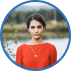
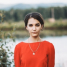
Add stylize for lionic

diff --git a/Skillbox/Web layout basic level/lionic-start/index.html b/Skillbox/Web layout basic level/lionic-start/index.html
@@ -302,14 +302,14 @@
 				<h2 class="section-title contacs-title">Contacts</h2>
 				<address class="contacts-address">
 					<ul class="contacts-list list-reset flex">
-						<li class="contacts-item flex">
+						<li class="contacts-item contact-item-visit-us flex">
 							<strong class="contacts-item-caption">
 								Visit&nbsp;Us
 							</strong>
 							<p class="contacts-item-text">Duis autem vel eum iriure dolor in&nbsp;hendrerit in&nbsp;vulputate velit.
 							</p>
 						</li>
-						<li class="contacts-item flex">
+						<li class="contacts-item contact-item-call-us flex">
 							<strong class="contacts-item-caption">
 								Call&nbsp;Us
 							</strong>
@@ -320,7 +320,7 @@
 								+7 (123) 456-78-90
 							</a>
 						</li>
-						<li class="contacts-item flex">
+						<li class="contacts-item contact-item-email-us flex">
 							<strong class="contacts-item-caption">
 								Email&nbsp;Us
 							</strong>
@@ -355,23 +355,29 @@
 				<nav class="footer-nav">
 					<ul class="list-reset footer-list flex">
 						<li class="footer-item">
-							<a href="#" class="footer-link">About Us</a>
+							<a href="#" target="_blank" class="footer-link">About Us</a>
 						</li>
 						<li class="footer-item">
-							<a href="#" class="footer-link">Contact Us</a>
+							<a href="#" target="_blank" class="footer-link">Contact Us</a>
 						</li>
 						<li class="footer-item">
-							<a href="#" class="footer-link">Privacy Policy</a>
+							<a href="#" target="_blank" class="footer-link">Privacy Policy</a>
 						</li>
 						<li class="footer-item">
-							<a href="#" class="footer-link">Terms Condition</a>
+							<a href="#" target="_blank" class="footer-link">Terms Condition</a>
 						</li>
 					</ul>
 				</nav>
-				<ul class="list-reset social">
-					<li class="social-item"><a href="#" class="social-link social-link-vk"></a></li>
-					<li class="social-item"><a href="#" class="social-link social-link-linkedin"></a></li>
-					<li class="social-item"><a href="#" class="social-link social-link-mail"></a></li>
+				<ul class="list-reset social flex">
+					<li class="social-item flex">
+						<a href="#" class="social-link social-link-twitter"></a>
+					</li>
+					<li class="social-item">
+						<a href="#" class="social-link social-link-linkedin"></a>
+					</li>
+					<li class="social-item">
+						<a href="#" class="social-link social-link-mail"></a>
+					</li>
 				</ul>
 			</div>
 		</div>

diff --git a/Skillbox/Web layout basic level/lionic-start/css/style.css b/Skillbox/Web layout basic level/lionic-start/css/style.css
@@ -247,7 +247,11 @@ p {
 
 .articles-item {
 	width: 570px;
+}
+
+.blog-preview {
 	border-radius: 5px;
+	overflow: hidden;
 	outline: 1px solid #e4e4e4;
 }
 
@@ -323,6 +327,13 @@ p {
 	margin-right: 17px;
 }
 
+.clients-avatar img {
+	min-width: 100%;
+	min-height: 100%;
+	border: 2px solid #3172b9;
+	border-radius: 100%;
+}
+
 .clients-name {
 	margin-bottom: 5px;
 	font-weight: 600;
@@ -340,14 +351,32 @@ p {
 
 /* contacts */
 
+.contacs-title {
+	margin-bottom: 109px;
+}
+
 .contacts-address {
 	font-style: normal;
 }
 
 .contacts-item {
 	flex-direction: column;
+	padding-top: 48px;
 	width: 370px;
-	outline: 1px solid red;
+	background-repeat: no-repeat;
+	background-size: 29px 29px;
+}
+
+.contact-item-visit-us {
+	background-image: url("../img/visit-us.svg");
+}
+
+.contact-item-call-us {
+	background-image: url("../img/call-us.svg");
+}
+
+.contact-item-email-us {
+	background-image: url("../img/email-us.svg");
 }
 
 .contacts-item:not(:nth-child(3n)) {
@@ -356,14 +385,24 @@ p {
 
 .contacts-item-caption {
 	margin-bottom: 30px;
+	font-weight: 600;
+	font-size: 17px;
+	line-height: 180%;
+	color: #1c1c1c;
 }
 
 .contacts-item-text {
 	margin: 0;
+	max-width: 214px;
+	font-size: 14px;
+	line-height: 180%;
 }
 
-.contacts-item-link:not(:last-child) {
-	margin-bottom: 5px;
+.contacts-item-link {
+	font-weight: 400;
+	font-size: 14px;
+	line-height: 180%;
+	color: #787878;
 }
 
 /* footer */
@@ -381,10 +420,51 @@ p {
 	margin-right: 25px;
 }
 
+.footer-copy {
+	font-weight: 400;
+	font-size: 12px;
+	color: #787878;
+}
+
 .footer-right {
 	align-items: center;
 }
 
+.footer-nav {
+	margin-right: 56px;
+}
+
+.footer-link {
+	font-weight: 600;
+	font-size: 15px;
+	color: #787878;
+}
+
 .footer-item:not(:last-child) {
 	margin-right: 28px;
+}
+
+.social {
+	gap: 32px;
+}
+
+.social-link {
+	display: block;
+	width: 24px;
+	height: 24px;
+	background-position: center center;
+	background-repeat: no-repeat;
+	background-size: contain;
+}
+
+.social-link-twitter {
+	background-image: url("../img/twitter.svg");
+}
+
+.social-link-linkedin {
+	background-image: url("../img/linkedin.svg");
+}
+
+.social-link-mail {
+	background-image: url("../img/mail.svg");
 }

diff --git a/Skillbox/Web layout basic level/5/css/style.css b/Skillbox/Web layout basic level/5/css/style.css
@@ -193,7 +193,7 @@ body {
 
 .container-modules {
   margin: 0 auto;
-  padding-top: 50px;
+  padding: 50px 0 50px;
   width: 1170px;
   font-family: Arial, Helvetica, sans-serif;
   font-weight: normal;
@@ -234,10 +234,10 @@ body {
   position: relative;
   display: inline-block;
   margin-bottom: 25px;
-  padding: 205px 0 0 25px;
+  padding: 205px 25px 25px;
   width: 572px;
   height: 505px;
-  box-shadow: 1px 1px 20px #eaeaea, -1px -1px 20px #eaeaea;
+  box-shadow: 0 0 40px 0 rgba(0, 0, 0, 0.1);
 }
 
 .card-modules:not(:nth-child(even)) {
@@ -289,7 +289,7 @@ body {
 
 .button-modules {
   display: block;
-  margin: 0 auto 50px;
+  margin: 0 auto;
   border: 2px solid #3f2aff;
   width: 274px;
   height: 70px;
